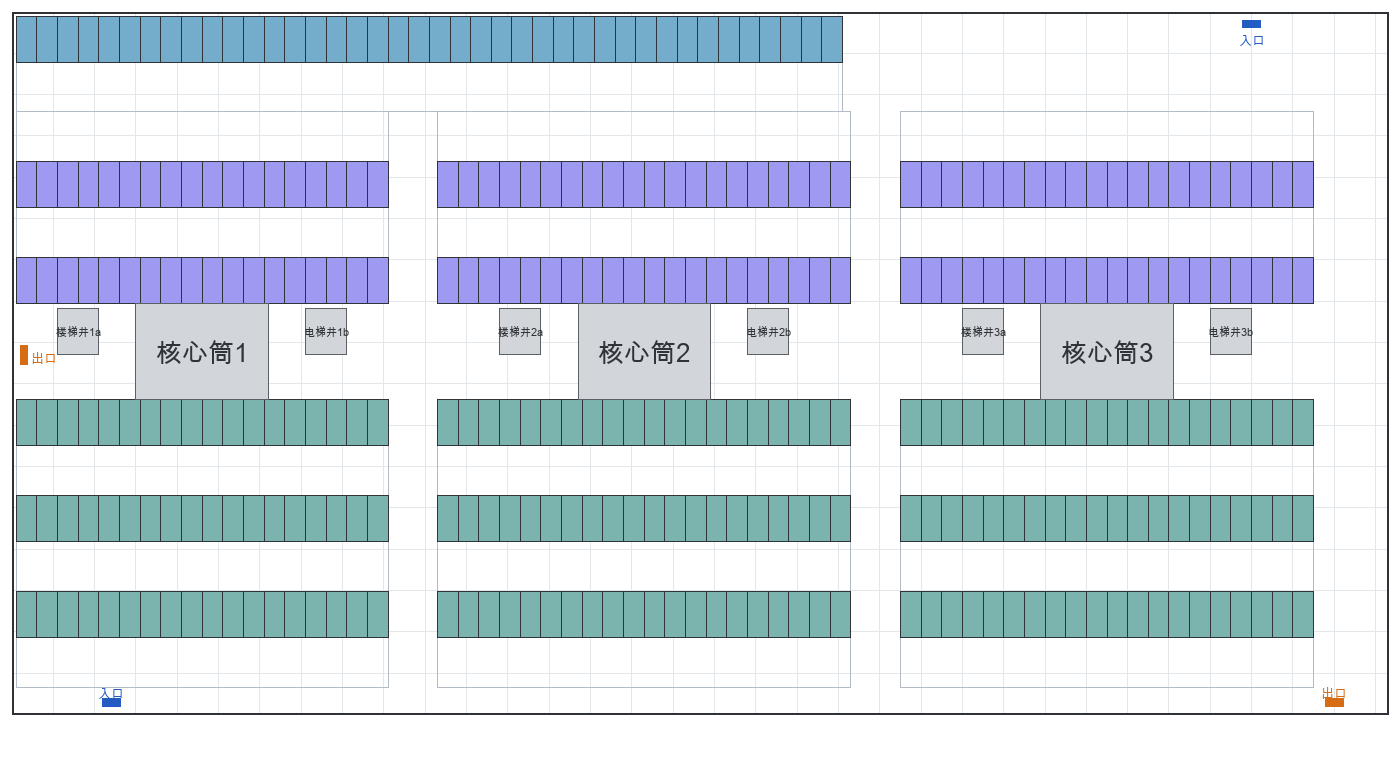
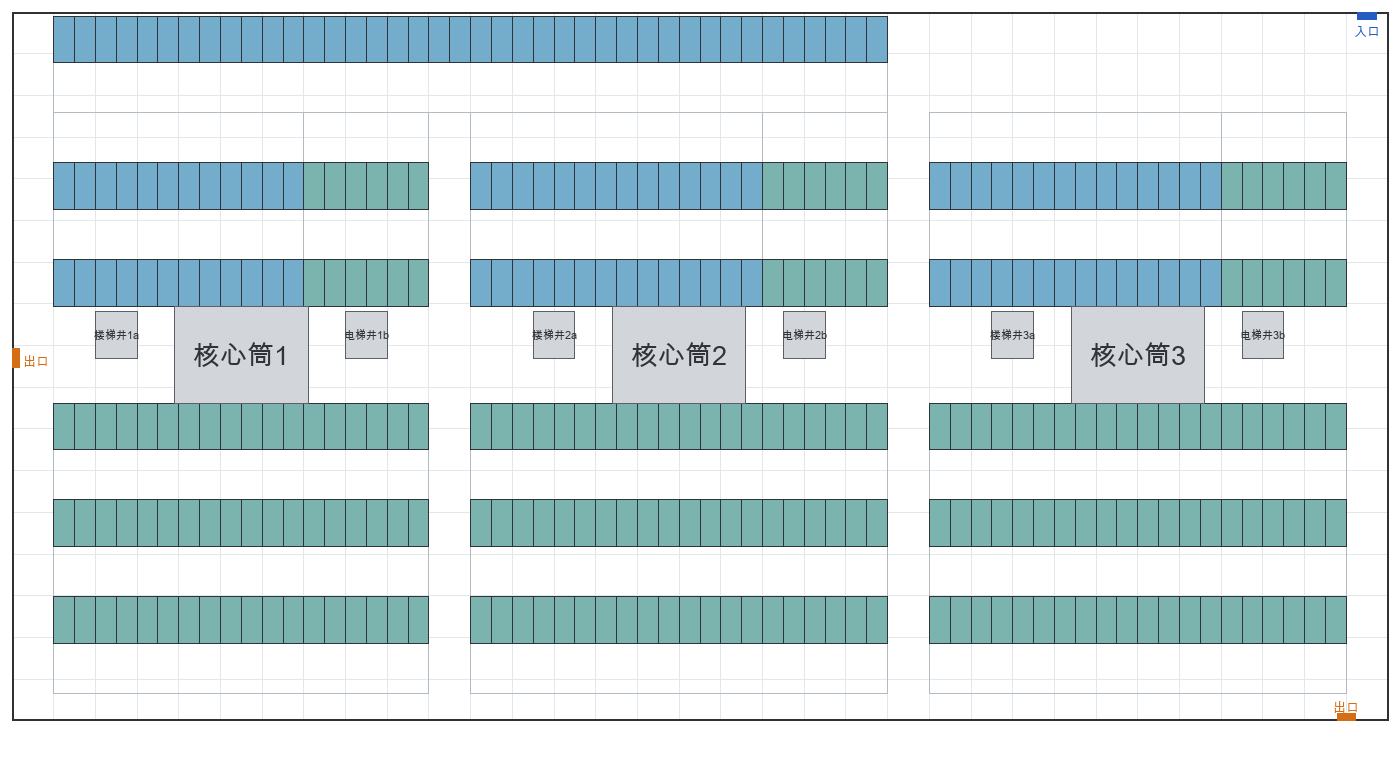
feat(macos): confirm low-confidence plate reads; one-entrance grid-aligned plan
- 识别即办理加置信度闸门：识别置信度低于 85%（或 valid=false）先弹一次确认，
  够高仍直接入场/出场；阈值可用 SMARTPARK_LPR_CONFIRM_THRESHOLD 覆盖。
  这段代码昨天被并发会话整文件覆盖丢失，本次重做并补上边界测试。
- 布局：入口只保留右上角一个；出入口贴在外墙线上（y=0 / y=85 / x=0）；
  内容整体右移 4.5m，10 个区域的左右边界全部落在 5m 网格线上；场地 165x85。
- 无障碍车位取消：原 116 位按 2/3 转充电、1/3 转普通（充电 120 / 普通 210）；
  两端地图不再有无障碍的专属配色与文字，悬停信息也按普通显示。

diff --git a/apps/webclient/app.js b/apps/webclient/app.js
@@ -969,12 +969,13 @@ const SPOT_FILL = {
   reserved:   'rgba(181,71,8,.55)',
   disabled:   'rgba(102,112,133,.55)',
   normal:     'rgba(15,118,110,.55)',
-  accessible: 'rgba(79,70,229,.55)',
+  // 无障碍车位按普通车位配色（不再有专属紫色），车位上的「无障碍」文字也一并去掉。
+  accessible: 'rgba(15,118,110,.55)',
   charging:   'rgba(2,106,162,.55)',
   vip:        'rgba(124,58,237,.55)',
 };
 
-const SPOT_TYPE_TEXT = { accessible: '无障碍', charging: '充电', vip: 'VIP' };
+const SPOT_TYPE_TEXT = { charging: '充电', vip: 'VIP' };
 
 // 车位上的文字：主行编号；占用时第二行写车牌，非普通车位空闲时写类型。
 // 与 macOS 端 ParkingMapView 的 spotLabel 同一套规则。

diff --git a/apps/macos/OperationsViewController.mm b/apps/macos/OperationsViewController.mm
@@ -3,6 +3,7 @@
 #import "TextUtil.h"
 #import "LocalRecognitionService.h"
 #import "PlatePhotoArchive.h"
+#import "RecognitionConfidence.h"
 #import "bridge/ParkingBridge.h"
 
 #import <UniformTypeIdentifiers/UniformTypeIdentifiers.h>
@@ -771,15 +772,48 @@ typedef NS_ENUM(NSInteger, SmartParkRecognitionIntent){
     NSNumber *rec = result[@"recognition_confidence"];
     double detV = [det isKindOfClass:[NSNumber class]] ? det.doubleValue : 0.0;
     double recV = [rec isKindOfClass:[NSNumber class]] ? rec.doubleValue : 0.0;
+    // 自定义脚本可能不给 valid：缺省当作有效，避免把「字段缺失」误判成低置信度。
+    NSNumber *validFlag = result[@"valid"];
+    const BOOL valid = [validFlag isKindOfClass:[NSNumber class]] ? validFlag.boolValue : YES;
 
-    // 识别即办理：按点下的按钮（入场/出场）直接完成，不再弹「是否采用该车牌」。
-    // 置信度仍然写进状态栏，误识别时操作员能立刻看到并把车改回正确车牌。
+    // 识别即办理：按点下的按钮（入场/出场）直接完成，不再弹「是否采用该车牌」；
+    // 但识别置信度不够高时先弹一次确认（阈值见 recognitionConfirmationThreshold）。
     if (_recognitionIntent == SmartParkRecognitionIntentEnter
         || _recognitionIntent == SmartParkRecognitionIntentExit){
+        const BOOL exiting = _recognitionIntent == SmartParkRecognitionIntentExit;
+        NSString *intentText = exiting ? @"出库" : @"入场";
         _statusLabel.stringValue = [NSString stringWithFormat:
             @"识别到 %@（检测 %.1f%% · 识别 %.1f%%），按识别结果办理中…",
             plate, detV * 100.0, recV * 100.0];
-        [self performRecognitionIntentWithPlate:plate result:result];
+
+        // 判据只取「识别置信度」（车牌读对没读对），不把检测置信度算进来：
+        // 样张上检测常常只有 0.8 出头而识别是 0.99，用 min() 会把好读的也拦下来。
+        const double threshold = [self recognitionConfirmationThreshold];
+        if (!smartpark_lpr::needsConfirmation(recV, valid, threshold)){
+            [self performRecognitionIntentWithPlate:plate result:result];
+            return;
+        }
+
+        NSAlert *alert = [[NSAlert alloc] init];
+        alert.messageText = [NSString stringWithFormat:
+            @"识别置信度偏低（低于 %.0f%%）", threshold * 100.0];
+        alert.informativeText = [NSString stringWithFormat:
+            @"识别到车牌：%@\n检测置信度 %.1f%% · 识别置信度 %.1f%%%@\n"
+             "确认后按该车牌办理%@。",
+            plate, detV * 100.0, recV * 100.0,
+            valid ? @"" : @"（识别结果被标记为不可靠）", intentText];
+        [alert addButtonWithTitle:[NSString stringWithFormat:@"按 %@ 办理%@", plate, intentText]];
+        [alert addButtonWithTitle:@"取消"];
+        [alert beginSheetModalForWindow:self.view.window completionHandler:^(NSModalResponse response){
+            if (response == NSAlertFirstButtonReturn){
+                [self performRecognitionIntentWithPlate:plate result:result];
+                return;
+            }
+            // 取消：不归档照片、不办理，车牌也不写进输入框。
+            _recognitionIntent = SmartParkRecognitionIntentNone;
+            _statusLabel.stringValue = [NSString stringWithFormat:
+                @"已取消：未按 %@ 办理%@。", plate, intentText];
+        }];
         return;
     }
 
@@ -798,6 +832,19 @@ typedef NS_ENUM(NSInteger, SmartParkRecognitionIntent){
                 @"已采用候选车牌 %@，请核对后再操作入场或出场。", plate];
         }
     }];
+}
+
+// 识别置信度确认阈值（0~1）：低于它才弹一次人工确认。默认 0.85；
+// SMARTPARK_LPR_CONFIRM_THRESHOLD 可覆盖（填 0.01 即「永远自动办理」）。
+- (double)recognitionConfirmationThreshold{
+    const char *value = getenv("SMARTPARK_LPR_CONFIRM_THRESHOLD");
+    if (value != nullptr && value[0] != '\0'){
+        const double parsed = atof(value);
+        if (parsed > 0.0 && parsed <= 1.0){
+            return parsed;
+        }
+    }
+    return 0.85;
 }
 
 @end

diff --git a/apps/macos/ParkingMapView.mm b/apps/macos/ParkingMapView.mm
@@ -32,12 +32,12 @@ NSColor *stallFill(const smartpark::ParkingSpot &spot){
         break;
     }
     switch (spot.type()){
-    case smartpark::SpotType::Accessible:
-        return rgba(79, 70, 229, 140);
+    // 无障碍车位按普通车位配色：地图上不再用紫色区分（用户要求）。
     case smartpark::SpotType::Charging:
         return rgba(2, 106, 162, 140);
     case smartpark::SpotType::Vip:
         return rgba(124, 58, 237, 140);
+    case smartpark::SpotType::Accessible:
     case smartpark::SpotType::Normal:
     default:
         return rgba(15, 118, 110, 140);
@@ -52,8 +52,9 @@ NSColor *labelColor(smartpark::SpotStatus status){
 
 const char *spotTypeText(smartpark::SpotType type){
     switch (type){
+    // 悬停信息里也不再把无障碍单列：地图上它就当普通车位看。
     case smartpark::SpotType::Accessible:
-        return "无障碍";
+        return "普通";
     case smartpark::SpotType::Charging:
         return "充电";
     case smartpark::SpotType::Vip:
@@ -83,8 +84,10 @@ NSString *spotLabel(const smartpark::ParkingSpot &spot){
     if (spot.parkedVehicle()){
         label = [label stringByAppendingFormat:@"\n%@",
                  smartpark_ui::toNSString(spot.parkedVehicle()->plateNumber())];
-    } else if (spot.type() != smartpark::SpotType::Normal
-               && spot.status() == smartpark::SpotStatus::Available){
+    } else if (spot.status() == smartpark::SpotStatus::Available
+               // 无障碍不再单列（按普通车位画），所以只有充电/VIP 会在车位上写字。
+               && (spot.type() == smartpark::SpotType::Charging
+                   || spot.type() == smartpark::SpotType::Vip)){
         label = [label stringByAppendingFormat:@"\n%@",
                  smartpark_ui::toNSString(spotTypeText(spot.type()))];
     }

diff --git a/tests/macos_map_tests.mm b/tests/macos_map_tests.mm
@@ -2,6 +2,7 @@
 
 #import "ParkingMapView.h"
 #import "PlatePhotoArchive.h"
+#import "RecognitionConfidence.h"
 #include "bridge/ParkingBridge.h"
 
 #include <QCoreApplication>
@@ -340,6 +341,19 @@ int main(int argc, char **argv){
                 unsetenv("SMARTPARK_PLATE_PHOTO_DIR");
                 std::printf("plate photo archive: 2 archived, latest lookup OK (%s)\n",
                             secondArchived.lastPathComponent.UTF8String);
+            }
+
+            // 置信度闸门：够高直接办理，低于阈值或结果被标记不可靠才要人工确认。
+            {
+                require(!smartpark_lpr::needsConfirmation(0.99, true, 0.85),
+                        "high confidence should be processed without confirmation");
+                require(!smartpark_lpr::needsConfirmation(0.85, true, 0.85),
+                        "confidence at the threshold should not ask again");
+                require(smartpark_lpr::needsConfirmation(0.8499, true, 0.85),
+                        "confidence below the threshold must ask for confirmation");
+                require(smartpark_lpr::needsConfirmation(0.99, false, 0.85),
+                        "an invalid result must ask even at high confidence");
+                std::printf("recognition gate: auto at >=85%%, confirm below\n");
             }
 
             [NSApplication sharedApplication];

diff --git a/apps/macos/RecognitionConfidence.h b/apps/macos/RecognitionConfidence.h
@@ -1,0 +1,22 @@
+#pragma once
+
+// 识别置信度闸门（识别即办理策略的一部分）。
+//
+// 管理端默认「识别成功就直接入场/出场」，只在**读得不够准**时弹一次人工确认。
+// 判据只取识别置信度（recognition confidence，即"车牌读对没读对"），不把检测
+// 置信度也算进来：样张上检测常常只有 0.8 出头而识别是 0.99，用两者的 min() 会把
+// 好读的车牌也拦下来，反而变回"每辆车都要点一下"。
+//
+// 阈值由调用方给（默认见 OperationsViewController 的 0.85），识别结果自带
+// `valid=false` 时无条件要求确认。
+namespace smartpark_lpr{
+
+inline bool needsConfirmation(double recognitionConfidence, bool valid,
+                              double threshold){
+    if (!valid){
+        return true;
+    }
+    return recognitionConfidence < threshold;
+}
+
+} // namespace smartpark_lpr
